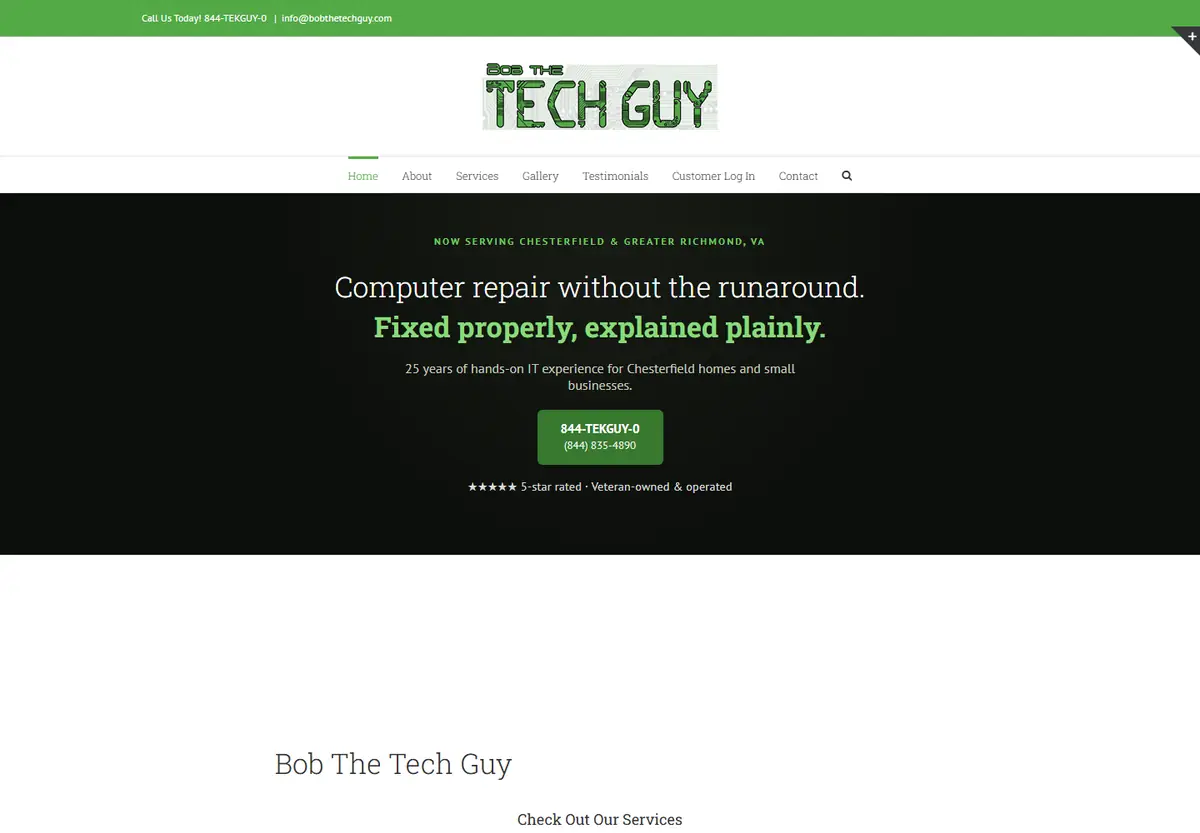
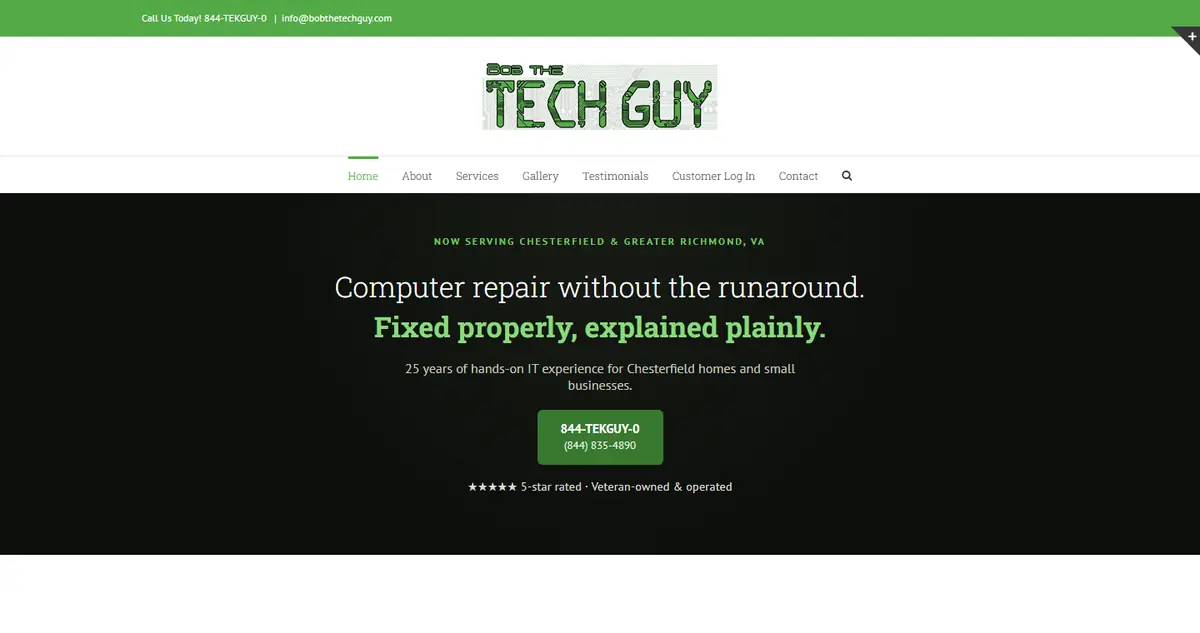
Add Bob circuit-board card below the NASA card
- chip U1 + fix animation anchored bottom-right (xMaxYMax slice), art masked
  under the text column; faint uniform texture below 640px
- home-after image cropped tighter
- eslint ignores .superpowers/ agent workspace

diff --git a/src/components/BobConsole.tsx b/src/components/BobConsole.tsx
@@ -1,0 +1,92 @@
+"use client";
+
+import { useState } from "react";
+import { useInView } from "@/lib/useInView";
+import { AnimatedStat } from "./AnimatedStat";
+import { CircuitBoard } from "./CircuitBoard";
+import { BobCaseFile } from "./BobCaseFile";
+import { CARD, BOB_SITE_URL, BOB_SITE_SSL_OK } from "@/content/bobCaseFile";
+
+export function BobConsole() {
+  const { ref, inView } = useInView<HTMLDivElement>(0.35);
+  const [open, setOpen] = useState(false);
+  const [originRect, setOriginRect] = useState<DOMRect | null>(null);
+
+  return (
+    <>
+      <div
+        ref={ref}
+        className="relative overflow-hidden rounded-sm border border-pcb-trace bg-pcb-bg px-6 py-7 sm:px-8 sm:py-8"
+      >
+        <CircuitBoard active={inView} />
+        <div className="relative">
+          <div className="mb-6 flex flex-wrap items-baseline justify-between gap-x-4 gap-y-1">
+            <div>
+              <p className="font-mono text-xs tracking-wider text-pcb-green">{CARD.label}</p>
+              <h3 className="mt-1 font-display text-xl sm:text-2xl text-pcb-text">{CARD.title}</h3>
+            </div>
+            <p className="font-mono text-xs tracking-wider text-pcb-text/60">{CARD.dates}</p>
+          </div>
+
+          <p className="mb-7 max-w-xl font-display text-sm sm:text-base leading-relaxed text-pcb-text/90">
+            {CARD.summary}
+          </p>
+
+          <div className="mb-7 grid gap-x-8 sm:grid-cols-3">
+            {CARD.stats.map((s) =>
+              s.text ? (
+                <div
+                  key={s.label}
+                  className="flex items-baseline justify-between border-b border-pcb-trace py-3 sm:border-b-0 sm:py-0"
+                >
+                  <span className="font-mono text-xs tracking-wider text-pcb-text/70">{s.label}</span>
+                  <span className="font-mono text-lg sm:text-xl text-pcb-green">{s.text}</span>
+                </div>
+              ) : (
+                <AnimatedStat key={s.label} label={s.label} value={s.value ?? 0} trigger={inView} tone="green" />
+              )
+            )}
+          </div>
+
+          <div className="mb-7 flex flex-wrap gap-2 font-mono text-xs tracking-wider text-pcb-text/70">
+            {CARD.tags.map((t) => (
+              <span key={t} className="rounded-sm border border-pcb-trace px-2 py-1">
+                {t}
+              </span>
+            ))}
+          </div>
+
+          <div className="flex flex-wrap items-center gap-x-6 gap-y-3">
+            <button
+              type="button"
+              onClick={() => {
+                setOriginRect(ref.current?.getBoundingClientRect() ?? null);
+                setOpen(true);
+              }}
+              className="group flex items-center gap-1.5 font-mono text-xs tracking-wider text-pcb-green outline-none focus-visible:underline"
+            >
+              <span aria-hidden="true">&gt;</span> open case file
+              <span aria-hidden="true" className="transition-transform group-hover:translate-x-0.5">
+                &rarr;
+              </span>
+            </button>
+            <a
+              href={BOB_SITE_URL}
+              target="_blank"
+              rel="noopener noreferrer"
+              className="font-mono text-xs tracking-wider text-pcb-text/80 underline-offset-4 outline-none hover:underline focus-visible:underline"
+            >
+              &#8599; visit the live site
+            </a>
+            {!BOB_SITE_SSL_OK && (
+              <span className="font-mono text-[10px] tracking-wider text-pcb-text/50">
+                SSL certificate pending — the browser may warn you
+              </span>
+            )}
+          </div>
+        </div>
+      </div>
+      <BobCaseFile open={open} onClose={() => setOpen(false)} originRect={originRect} />
+    </>
+  );
+}

diff --git a/src/components/CircuitBoard.tsx b/src/components/CircuitBoard.tsx
@@ -9,17 +9,17 @@ import type { CSSProperties } from "react";
 
 const TRACES = [
   "M0 64 H150 V118 H330",
-  "M0 212 H96 V164 H262 V232 H438",
+  "M0 300 H120 V250 H300 V262 H664",
   "M540 0 V72 H652 V150 H800",
-  "M800 262 H708 V330",
+  "M800 262 H744",
+  "M704 330 V289",
   "M330 118 H470 V64 H540",
-  "M600 232 H700 V200 H800",
 ];
-// The bug's route ends at U1's left pin.
-const BUG_PATH = "M0 212 H96 V164 H262 V232 H438";
-const PADS: [number, number][] = [[150, 64], [330, 118], [96, 212], [262, 164], [470, 64], [652, 72], [708, 262], [700, 200]];
-const SILK: [number, number, string][] = [[156, 56, "R7"], [336, 110, "C12"], [476, 56, "R3"], [658, 64, "C4"], [714, 254, "J1"]];
-const TEST_POINTS: [number, number, string][] = [[210, 290, "TP1"], [560, 300, "TP2"], [760, 120, "TP3"]];
+// The bug's route ends at U1's left edge (bottom-right corner, clear of the text).
+const BUG_PATH = "M0 300 H120 V250 H300 V262 H664";
+const PADS: [number, number][] = [[150, 64], [330, 118], [120, 300], [300, 250], [470, 64], [652, 72], [652, 150]];
+const SILK: [number, number, string][] = [[156, 56, "R7"], [336, 110, "C12"], [476, 56, "R3"], [658, 64, "C4"], [752, 254, "J1"]];
+const TEST_POINTS: [number, number, string][] = [[60, 160, "TP1"], [560, 305, "TP2"], [770, 120, "TP3"]];
 
 function Bug() {
   // 8×6 pixel bug, centred on its path position
@@ -41,9 +41,9 @@ export function CircuitBoard({ active }: { active: boolean }) {
   return (
     <svg
       aria-hidden="true"
-      className="pointer-events-none absolute inset-0 h-full w-full"
+      className="pcb-mask pointer-events-none absolute inset-0 h-full w-full"
       viewBox="0 0 800 330"
-      preserveAspectRatio="xMidYMid slice"
+      preserveAspectRatio="xMaxYMax slice"
     >
       {/* copper traces under the mask */}
       <g stroke="var(--pcb-trace)" strokeWidth="2" fill="none" strokeLinejoin="round">
@@ -78,9 +78,9 @@ export function CircuitBoard({ active }: { active: boolean }) {
       ))}
 
       {/* chip U1 — where the bug ends up */}
-      <g transform="translate(446 214)">
-        <rect width="64" height="38" rx="3" fill="var(--pcb-panel)" stroke="var(--pcb-trace)" strokeWidth="2" />
-        {[8, 20, 32, 44, 56].map((x) => (
+      <g transform="translate(664 243)">
+        <rect width="80" height="38" rx="3" fill="var(--pcb-panel)" stroke="var(--pcb-trace)" strokeWidth="2" />
+        {[10, 22, 34, 46, 58].map((x) => (
           <g key={x} fill="var(--pcb-gold)" opacity="0.7">
             <rect x={x - 2} y={-6} width="4" height="6" />
             <rect x={x - 2} y={38} width="4" height="6" />
@@ -97,7 +97,7 @@ export function CircuitBoard({ active }: { active: boolean }) {
       )}
 
       {/* …and gets fixed */}
-      <g transform="translate(478 233)">
+      <g transform="translate(704 262)">
         <g
           style={
             active

diff --git a/src/app/globals.css b/src/app/globals.css
@@ -104,3 +104,16 @@ html {
   from { opacity: 0; transform: scale(0.4); }
   to { opacity: 1; transform: scale(1); }
 }
+
+/* Circuit art: a faint texture on phones (it would sit behind the text);
+   from 640px up it fades under the text column and is full strength in the corner. */
+.pcb-mask {
+  mask-image: linear-gradient(rgba(0, 0, 0, 0.22), rgba(0, 0, 0, 0.22));
+  -webkit-mask-image: linear-gradient(rgba(0, 0, 0, 0.22), rgba(0, 0, 0, 0.22));
+}
+@media (min-width: 640px) {
+  .pcb-mask {
+    mask-image: linear-gradient(to right, rgba(0, 0, 0, 0.28), rgba(0, 0, 0, 0.28) 48%, #000 82%);
+    -webkit-mask-image: linear-gradient(to right, rgba(0, 0, 0, 0.28), rgba(0, 0, 0, 0.28) 48%, #000 82%);
+  }
+}

diff --git a/src/components/Experience.tsx b/src/components/Experience.tsx
@@ -1,6 +1,7 @@
 import { SectionHeading } from "./SectionHeading";
 import { Reveal } from "./Reveal";
 import { NasaConsole } from "./NasaConsole";
+import { BobConsole } from "./BobConsole";
 
 const LIDAR_TAGS = ["PyTorch", "EfficientNet", "Python", "Agile/Scrum"];
 const TA_TAGS = ["Java", "Python", "Data Structures", "Mentorship"];
@@ -13,6 +14,10 @@ export function Experience() {
       <div className="space-y-8">
         <Reveal>
           <NasaConsole />
+        </Reveal>
+
+        <Reveal delayMs={50}>
+          <BobConsole />
         </Reveal>
 
         <Reveal delayMs={100}>
